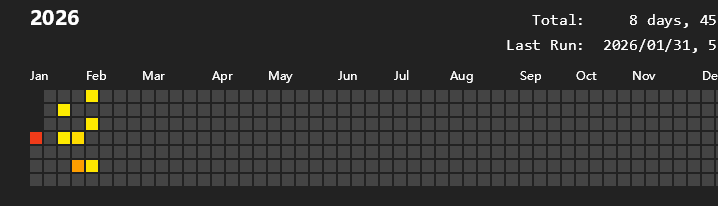
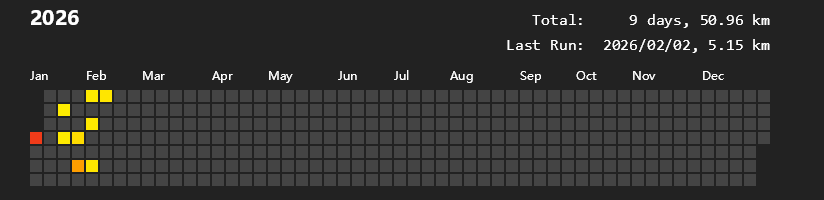
2026/2/2 跑步 5.15 公里

diff --git a/trend.md b/trend.md
@@ -1,4 +1,4 @@
-### Total: 300 days, 1774.53 km.
+### Total: 301 days, 1779.68 km.
 
 
 ![Monthly](https://github.com/prime167/MyRunningLog/blob/main/data/CumulativeTrendByMonth.png)
